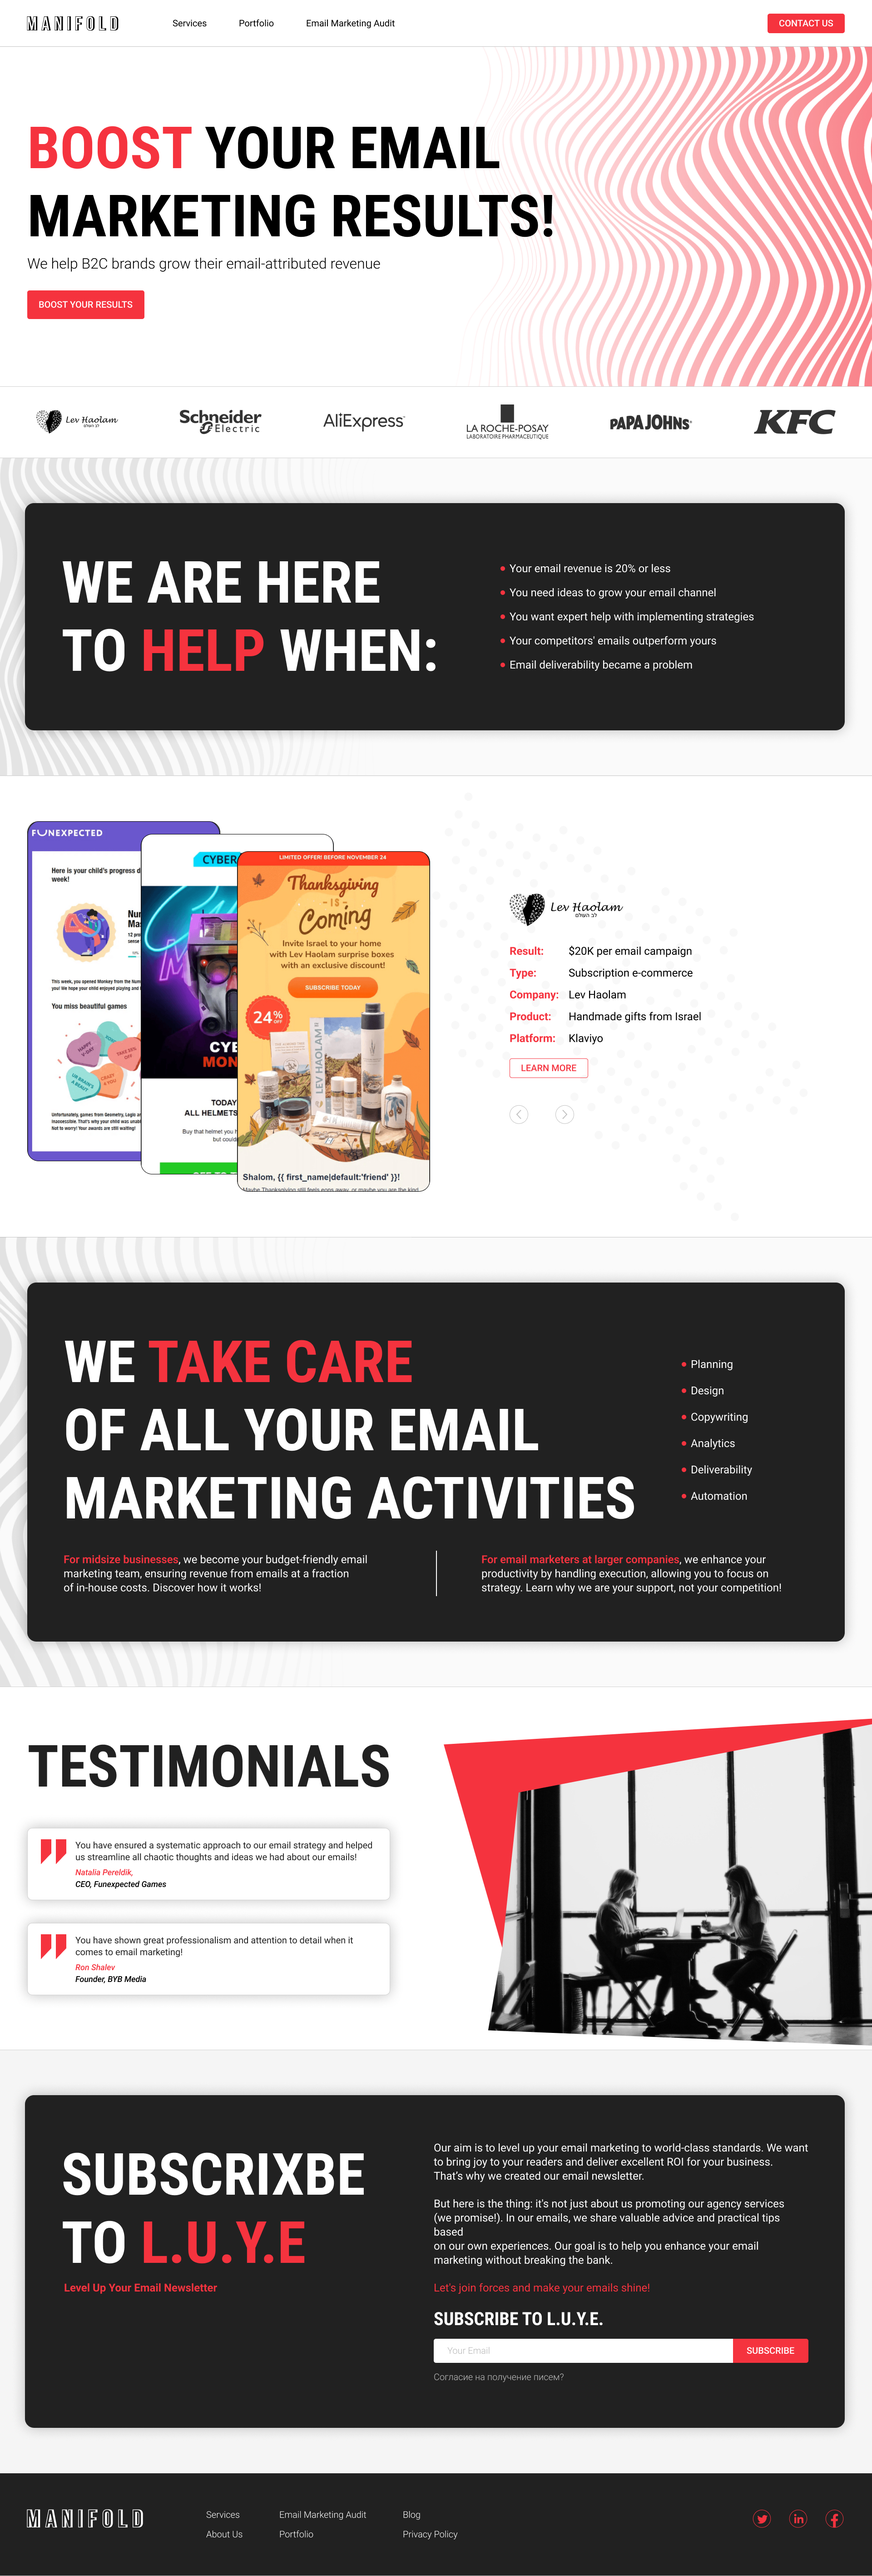
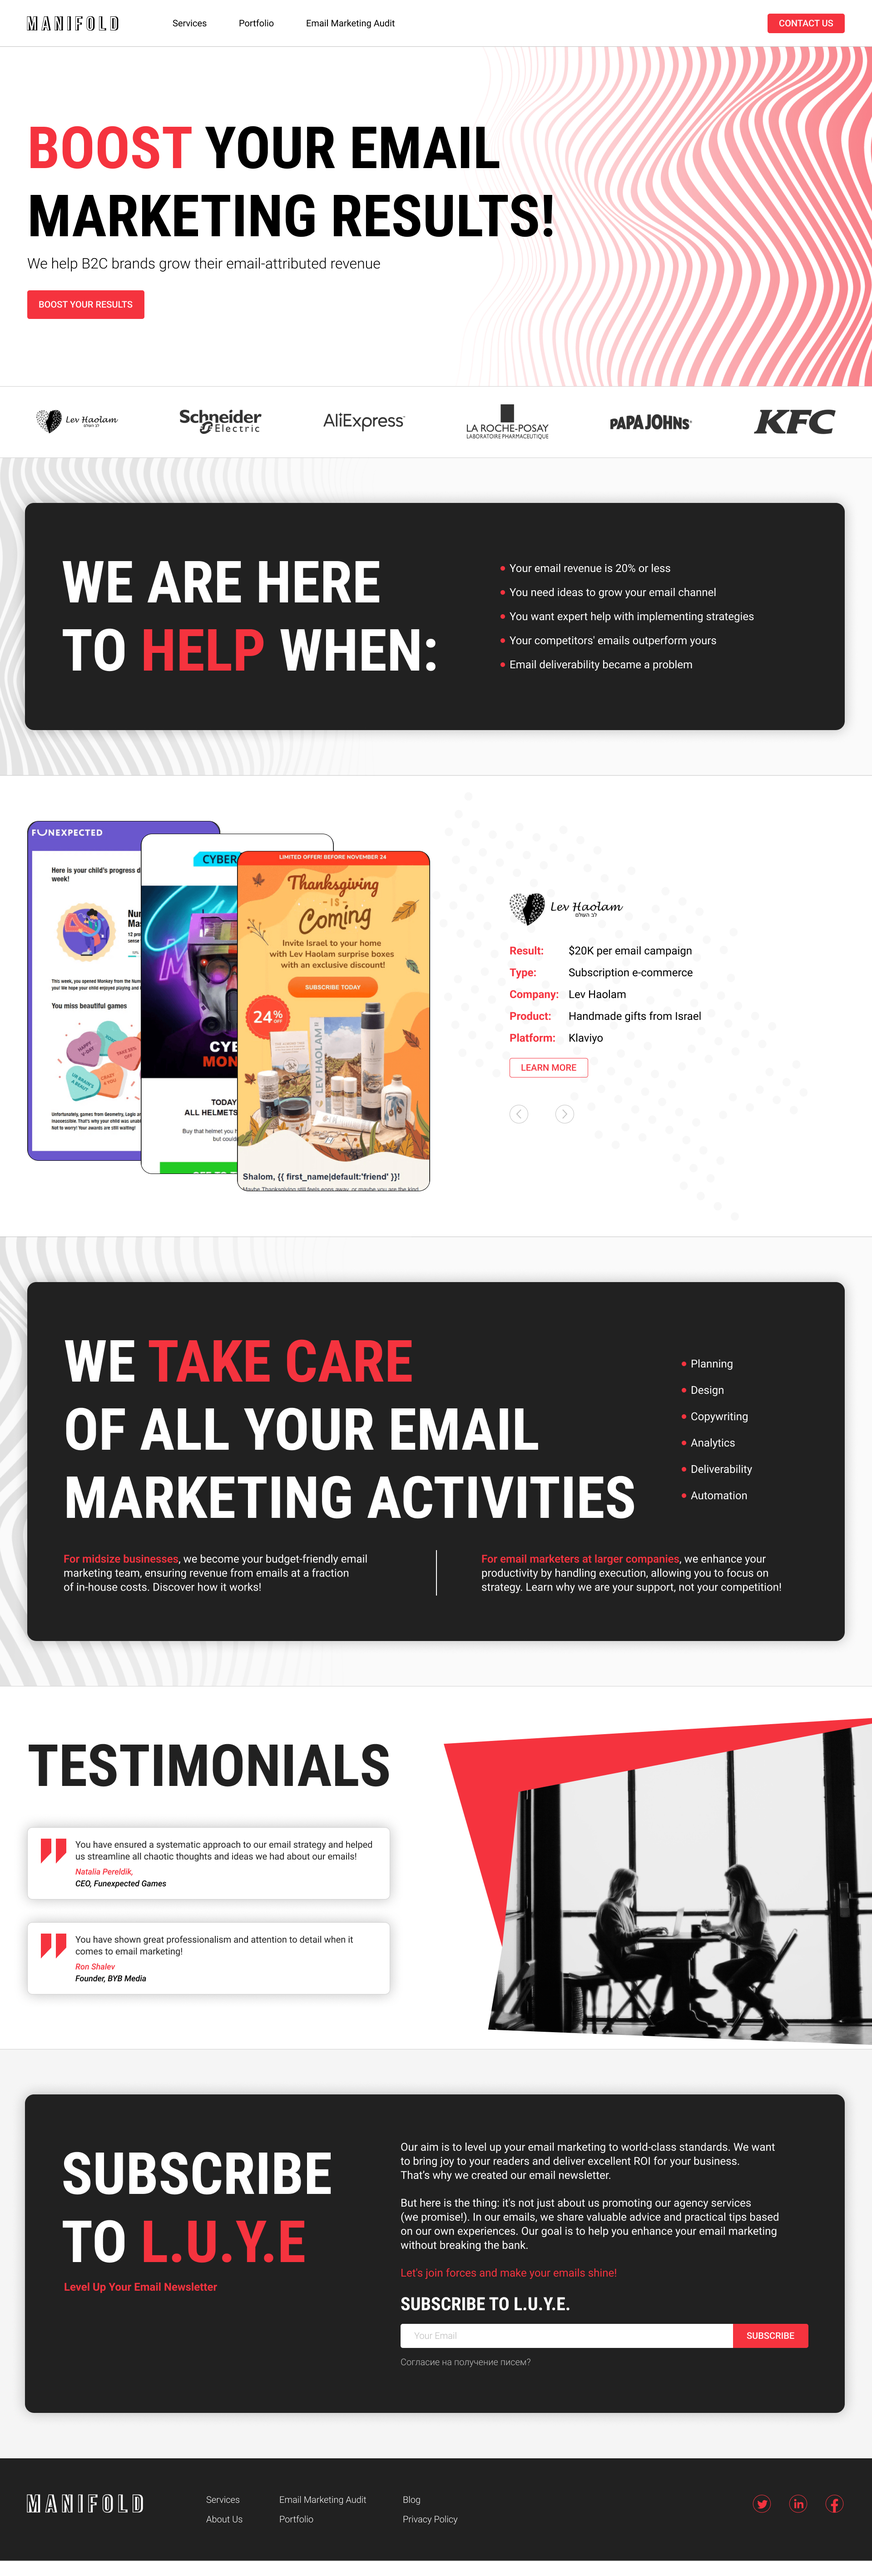
делает пиксель перфект

diff --git a/src/index.html b/src/index.html
@@ -208,7 +208,7 @@
 
 		<section class="providers section">
 			<div class="providers__container container container--dark">
-				<h2 class="providers__title title">We <span class="primary">take care</span> of all your email marketing activities</h2>
+				<h2 class="providers__title title">We <span class="primary">take care</span> <span class="db">of all your email</span> marketing activities</h2>
 				<ul class="providers__list list">
 					<li>Planning</li>
 					<li>Design</li>
@@ -219,7 +219,7 @@
 				</ul>
 
 				<div class="providers__footer">
-					<p class="providers__footer-text"><span class="primary">For midsize businesses</span>, we become your budget-friendly email marketing team, ensuring revenue from emails at a fraction of in-house costs. Discover how it works!</p>
+					<p class="providers__footer-text"><span class="primary">For midsize businesses</span>, we become your budget-friendly email marketing team, ensuring revenue from emails at a fraction <span class="db">of in-house costs. Discover how it works!</span></p>
 					<p class="providers__footer-text"><span class="primary">For email marketers at larger companies</span>, we enhance your productivity by handling execution, allowing you to focus on strategy. Learn why we are your support, not your competition!</p>
 				</div>
 			</div>
@@ -248,8 +248,8 @@
 				<p class="subscription__title title">Subscribe to <span class="primary">L.U.Y.E</span></p>
 				<p class="subscription__subtitle">Level Up Your Email Newsletter</p>
 				<div class="subscription__content">
-					<p>Our aim is to level up your email marketing to world-class standards. We want to bring joy to your readers and deliver excellent ROI for your business. That’s why we created our email newsletter.</p>
-					<p>But here is the thing: it's not just about us promoting our agency services (we promise!). In our emails, we share valuable advice and practical tips based on our own experiences. Our goal is to help you enhance your email marketing without breaking the bank.</p>
+					<p>Our aim is to level up your email marketing to world-class standards. We want to&nbsp;bring joy to your readers and deliver excellent ROI for your business. That’s&nbsp;why&nbsp;we created our email newsletter.</p>
+					<p>But here is the thing: it's not just about us promoting our agency services (we&nbsp;promise!). In our emails, we share valuable advice and practical tips based on&nbsp;our own experiences. Our goal is to help you enhance your email marketing without breaking the bank.</p>
 					<p class="subscription__primary primary">Let's join forces and make your emails shine!</p>
 					<form action="#" class="subscription__form form">
 						<h2 class="form__title">Subscribe to L.U.Y.E.</h2>
@@ -270,7 +270,7 @@
 	<footer class="footer">
 		<div class="footer__container container">
 			<a href="index.html" class="footer__logo logo">
-				<img src="./img/logo-footer.svg" alt="Manifold" width="251" height="39">
+				<img src="./img/logo-footer.svg" alt="Manifold" width="256" height="41">
 			</a>
 			<ul class="footer__nav">
 				<li><a href="#" class="footer__link">Services</a></li>

diff --git a/src/styles/blocks/form.scss b/src/styles/blocks/form.scss
@@ -1,8 +1,9 @@
 .form__title {
-	margin: 0 0 20px;
+	margin: 0 0 29px;
 	font-weight: 700;
 	font-size: 40px;
 	font-family: 'Roboto Condensed', sans-serif;
+	text-transform: uppercase;
 }
 
 .form__inner {
@@ -10,19 +11,19 @@
 }
 
 .form__inner:not(:last-child) {
-	margin-bottom: 20px;
+	margin-bottom: 16px;
 }
 
 .form__input {
 	display: block;
+	box-sizing: border-box;
 	width: 100%;
+	height: 52px;
 	padding: 15px 30px;
 	font-weight: 300;
 	font-size: 20px;
-	font-size: 20px;
 	font-family: inherit;
-	font-family: inherit;
-	background-color: #ffffff;
+	background-color: #fff;
 	border: 0;
 	border-radius: 5px 0 0 5px;
 }
@@ -37,6 +38,8 @@
 }
 
 .form__button {
+	padding: 14px 29px;
+	letter-spacing: -1px;
 	border-radius: 0 5px 5px 0;
 }
 

diff --git a/src/styles/blocks/slider-two.scss b/src/styles/blocks/slider-two.scss
@@ -2,7 +2,11 @@
 	display: grid;
 	grid-template-columns: 887px auto;
 	grid-template-rows: auto 1fr;
-	gap: 0 175px;
+	gap: 0 177px;
+}
+
+.slider-two picture {
+	display: block;
 }
 
 .slider-two__list {
@@ -55,7 +59,7 @@
 }
 
 .slider-two__list-content {
-	margin-top: 149px;
+	margin-top: 153px;
 }
 
 .slider-two__item-content .slider-two__item-picture {
@@ -66,13 +70,17 @@
 .slider-two__item-content-dl {
 	display: grid;
 	grid-template-columns: 110px auto;
-	margin: 0 0 30px;
-	gap: 20px 10px;
+	margin: 23px 0 30px;
+	gap: 18px 20px;
 }
 
 .slider-two__item-content-dt {
 	font-weight: 700;
 	color: $primary;
+}
+
+.slider-two__item-content-dd {
+	margin: 0;
 }
 
 .slider-two__pagination {

diff --git a/src/styles/blocks/header.scss b/src/styles/blocks/header.scss
@@ -6,7 +6,7 @@
 	display: flex;
 	align-items: center;
 	padding-top: 30px;
-	padding-bottom: 30px;
+	padding-bottom: 28px;
 }
 
 .header__bottom .container {
@@ -26,16 +26,21 @@
 	background-image: image-set(url('../../img/waves-top.avif') type('image/avif'),
 			url('../../img/waves-top.png'));
 	background-repeat: no-repeat;
-	background-position: right center;
+	background-position: right -165px center;
 	border-bottom: 1px solid #c2c2c2;
 }
 
 .header__title {
 	margin-bottom: 10px;
+	line-height: 1.17;
 }
 
 .header__subtitle {
 	margin: 0 0 40px;
 	font-weight: 300;
 	font-size: 32px;
+}
+
+.header__bottom-button {
+	padding: 20px 26px;
 }

diff --git a/src/styles/blocks/reviews.scss b/src/styles/blocks/reviews.scss
@@ -1,6 +1,6 @@
 .reviews {
 	position: relative;
-	min-height: 745px;
+	min-height: 606px;
 	overflow: hidden;
 	font-size: 20px;
 	color: #212121;
@@ -9,8 +9,8 @@
 .reviews::after {
 	content: '';
 	position: absolute;
-	top: 50%;
-	left: 50%;
+	top: calc(50% + 39px);
+	left: 51%;
 	width: 1435px;
 	height: 745px;
 	background-image: url(../../img/reviews.png);
@@ -22,6 +22,10 @@
 	background-position: center;
 	background-size: contain;
 	transform: translateY(-50%);
+}
+
+.reviews__container {
+	padding-top: 6px;
 }
 
 .reviews cite {
@@ -44,6 +48,7 @@
 
 .reviews__title {
 	max-width: 50%;
+	margin-bottom: 60px;
 }
 
 .reviews__blockquote {

diff --git a/src/styles/blocks/providers.scss b/src/styles/blocks/providers.scss
@@ -4,7 +4,7 @@
 	background-image: image-set(url('../../img/waves.avif') type('image/avif'),
 			url('../../img/waves.png'));
 	background-repeat: no-repeat;
-	background-position: -300px center;
+	background-position: -563px center;
 	background-size: contain;
 }
 
@@ -12,11 +12,11 @@
 	display: grid;
 	align-items: center;
 	grid-template-columns: 1270px 1fr;
-	gap: 40px 91px;
+	gap: 45px 91px;
 }
 
 .providers__list {
-	gap: 30px;
+	gap: 28px;
 }
 
 .providers__footer {

diff --git a/src/styles/layout/scaffolding.scss b/src/styles/layout/scaffolding.scss
@@ -32,6 +32,7 @@ img {
 	margin: 0;
 	font-weight: 700;
 	font-size: 128px;
+	line-height: 1.17;
 	font-family: 'Roboto Condensed', sans-serif;
 	text-transform: uppercase;
 }
@@ -41,7 +42,7 @@ img {
 }
 
 .section {
-	padding: 100px 0;
+	padding: 98px 0;
 }
 
 .container {
@@ -81,4 +82,8 @@ img {
 	height: 10px;
 	background-color: $primary;
 	border-radius: 50%;
+}
+
+.db {
+	display: block;
 }

diff --git a/src/styles/blocks/subscription.scss b/src/styles/blocks/subscription.scss
@@ -4,8 +4,9 @@
 
 .subscription__container {
 	display: grid;
-	grid-template-columns: 1fr 1fr;
+	grid-template-columns: 743px 1fr;
 	grid-template-rows: auto 1fr;
+	padding-bottom: 97px;
 }
 
 .subscription__title {
@@ -32,4 +33,8 @@
 
 .subscription__content p:not(:last-child) {
 	margin-bottom: 30px;
+}
+
+.subscription__form {
+	padding-top: 8px;
 }

diff --git a/src/styles/main.scss b/src/styles/main.scss
@@ -5,11 +5,11 @@
 @import './layout/fonts.scss';
 
 @import './layout/scaffolding.scss';
+@import './blocks/button.scss';
 
 @import './blocks/header.scss';
 @import './blocks/logo.scss';
 @import './blocks/nav.scss';
-@import './blocks/button.scss';
 @import './blocks/clients.scss';
 @import './blocks/services.scss';
 @import './blocks/results.scss';

diff --git a/src/styles/blocks/footer.scss b/src/styles/blocks/footer.scss
@@ -17,10 +17,10 @@
 .footer__nav {
 	display: grid;
 	grid-template-columns: repeat(3, auto);
-	margin: 0;
+	margin: -4px 0 0 0;
 	padding: 0;
 	list-style-type: none;
-	gap: 20px 80px;
+	gap: 13px 80px;
 }
 
 .footer__link {

diff --git a/src/styles/blocks/results.scss b/src/styles/blocks/results.scss
@@ -1,4 +1,5 @@
 .results {
+	padding-bottom: 105px;
 	background-image: url(../../img/points.png);
 	background-image: image-set(url('../../img/points.avif') type('image/avif'),
 			url('../../img/points.png'));

diff --git a/src/styles/blocks/services.scss b/src/styles/blocks/services.scss
@@ -10,10 +10,11 @@
 
 .services__container {
 	display: grid;
+	align-items: center;
 	grid-template-columns: 850px auto;
-	gap: 135px;
+	gap: 114px;
 }
 
 .services__list {
-	gap: 25px;
+	gap: 23px;
 }
